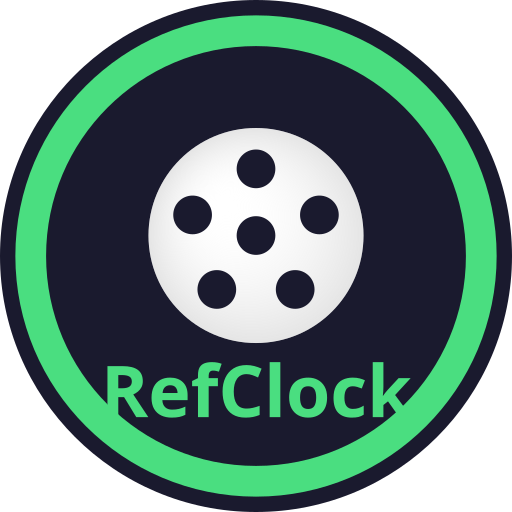
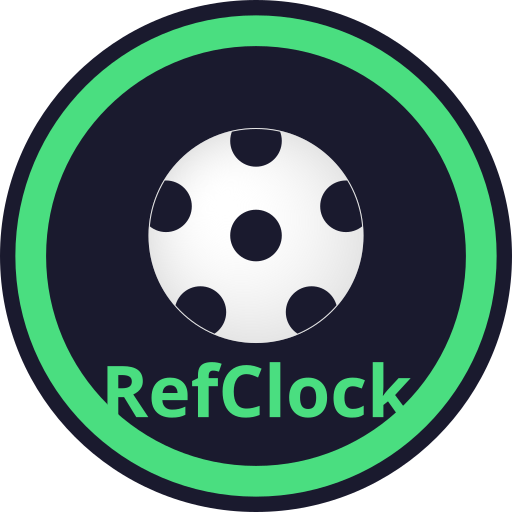
Bigger patches with 25% edge clip for realistic soccer ball

diff --git a/generate-icons.js b/generate-icons.js
@@ -45,8 +45,8 @@ function drawIcon(size) {
   ctx.arc(bx, by, ballR - 1, 0, Math.PI * 2);
   ctx.clip();
 
-  const patchR    = ballR * 0.18;
-  const patchDist = ballR * 0.62;
+  const patchR    = ballR * 0.24;
+  const patchDist = ballR * 0.88; // patches 25% clipped by ball edge
   ctx.fillStyle = '#1a1a2e';
 
   // Center patch
